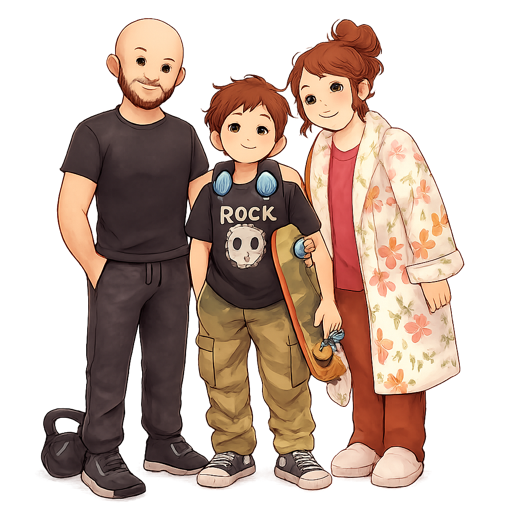
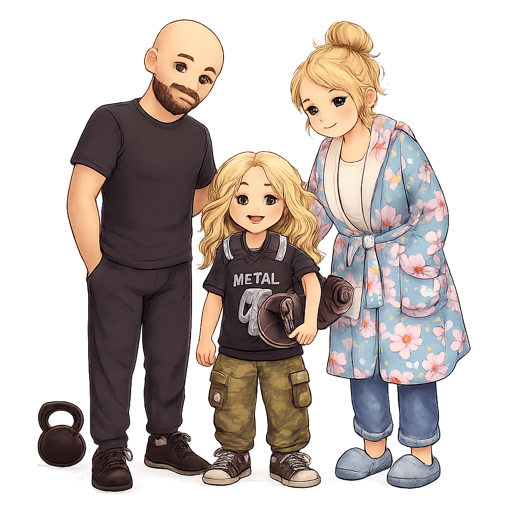
Lei/Mara want parrots; Rhubarb age 8 + unruly blonde hair; Gosia blonde
Preference swaps:
- Lei Kealoha wants a parrot to sing along with her ukulele (not lap cat)
- Mara Diop wants a parrot for company + feathers-for-her-outfits
  (not a shop dog)

Two-Houses cameo corrections: Rhubarb is 8 (not 11), small-statured,
unruly long blonde hair; Gosia is blonde with her top-knot bun. Prompt
updated to lock full-body framing with feet visible on a shared ground
line — an early signal of what a consistent three-quarter framing
looks like across the cast.

diff --git a/apps/game/public/admin/cast-gallery.html b/apps/game/public/admin/cast-gallery.html
@@ -81,8 +81,8 @@
     { id: '17-benji', name: 'Ben "Benji" Mackenzie', blurb: 'Trans rewilder, brings wild-visit reports' },
     { id: '18-tali', name: 'Avital "Tali" Rosenberg', blurb: 'Jewish pottery teacher, studio cat' },
     { id: '19-linny', name: 'Mei Lin "Linny" Chow', blurb: 'British-Chinese food blogger, photogenic kitten' },
-    { id: '20-lei', name: 'Leilani "Lei" Kealoha', blurb: 'Hawaiian ukulele teacher in Cornwall, lap cat' },
-    { id: '21-mara', name: 'Mariama "Mara" Diop', blurb: 'Senegalese seamstress, shop dog' },
+    { id: '20-lei', name: 'Leilani "Lei" Kealoha', blurb: 'Hawaiian ukulele teacher, wants a parrot to sing along' },
+    { id: '21-mara', name: 'Mariama "Mara" Diop', blurb: 'Senegalese seamstress, wants a parrot for company &amp; feathers' },
     { id: '22-yilmaz', name: 'Cem & Leyla Yılmaz', blurb: 'Turkish baker + nurse, cozy cat' },
     { id: '23-wiri-harper', name: 'Wiri & Harper', blurb: 'Maori ranger + nb biologist, field-trip dog' },
     { id: '24-perera-fernando', name: 'Perera-Fernando family', blurb: 'Sri Lankan, twins (9), calm family dog' },

diff --git a/docs/rehoming-cast.md b/docs/rehoming-cast.md
@@ -30,8 +30,8 @@
 | 6 | **Hiroshi "Hiro" Nakamura** | he/him | 62 | Retired fisherman, hearing aids, always carrying a library book | Very quiet · Patient · Recently bereaved | A sweet older cat who wants a gentle forever |
 | 18 | **Avital "Tali" Rosenberg** | she/her | 35 | Ashkenazi Jewish British, pottery teacher, curly dark hair tied up in a headscarf, clay dust on her hands | Creative chaos · Studio-lived · First-time | A playful studio cat |
 | 19 | **Mei Lin "Linny" Chow** | she/her | 28 | British-Chinese (Hong Kong heritage), food blogger, always with a notebook + camera, neon jackets | Flat / urban · Busy evenings · First-time | A photogenic kitten to star in her blog |
-| 20 | **Leilani "Lei" Kealoha** | she/her | 58 | Native Hawaiian (moved to Cornwall decades ago), ukulele teacher, hibiscus tucked in her greying hair on good days, uses a cane on damp ones | Lap-focused · Musical household · Recently bereaved | A sweet lap companion |
-| 21 | **Mariama "Mara" Diop** | she/her | 45 | Senegalese British, seamstress with her own tailoring shop, switches between boubous and jeans, warm booming laugh | Cozy / shop home · Experienced · Patient | A small rescue dog who can nap under her sewing table |
+| 20 | **Leilani "Lei" Kealoha** | she/her | 58 | Native Hawaiian (moved to Cornwall decades ago), ukulele teacher, hibiscus tucked in her greying hair on good days, uses a cane on damp ones | Musical household · Bird-welcoming · Recently bereaved | A parrot who'll sing along while she plays ukulele |
+| 21 | **Mariama "Mara" Diop** | she/her | 45 | Senegalese British, seamstress with her own tailoring shop, switches between boubous and jeans, warm booming laugh | Shop home · Bird-welcoming · Creative | A parrot to look beautiful on a perch, chirp while she sews, and shed bright feathers she can stitch into her fancy outfits |
 | 29 | **Morwenna "Wenna" Treloar** (lighthouse keeper) | she/her | 56 | Cornish, weathered salt-kissed cheeks, chunky hand-knit Aran jumper, sea-bleached work trousers, boots that squeak with brine | Coastal / remote · Very independent · Loves storms | A loyal shaggy dog who won't flinch at gulls or fog |
 
 ### Couples
@@ -70,7 +70,7 @@ A separate category because the *household* is two houses connected by a child w
 
 | # | Household | Members | Signature | Traits | Preference |
 |---|---|---|---|---|---|
-| 30 | **Dad's house & Mum's house** (first names only — no surnames shown in game) | **Marcus** (he/him, 44, Danish, psychotherapist, bald + bearded, fitness-focused, tidy flat with houseplants and kettlebells by the door) · **Gosia** (she/her, 42, Polish homebody, flowered housecoat, hair in a top-knot bun, cozy cottage full of blankets and bookshelves) · **Rhubarb** (they/them, 11, genderqueer, army-camo cargos + skater Converse, rock-band tee, headphones always round neck — splits the week between parents, *wants to adopt every single animal and has to be gently reined in by both parents*) | Two very different homes: Dad's is bright + active, Mum's is warm + slow. They co-parent warmly. Rhubarb rolls between them on a skateboard with an animal carrier strapped to their back. | Dual home · **Travels-well-between-houses pet required** · Shared care · Experienced adults · One wildly enthusiastic kid | A confident, car-ride-loving, people-attached pet who treats both houses as their territory — not a flighty or anxious one. Species that travel well: adaptable dogs, outgoing cats, bonded bunnies, some parrots. The game should actively *block* Rhubarb's puppy-eyed "can we adopt this one too!" spiral — this household gets ONE animal at a time |
+| 30 | **Dad's house & Mum's house** (first names only — no surnames shown in game) | **Marcus** (he/him, 44, Danish, psychotherapist, bald + bearded, fitness-focused, tidy flat with houseplants and kettlebells by the door) · **Gosia** (she/her, 42, Polish homebody, blonde hair in a top-knot bun, flowered housecoat, cozy cottage full of blankets and bookshelves) · **Rhubarb** (they/them, 8, genderqueer, small for the cast, unruly long blonde hair tumbling past their shoulders, army-camo cargos + skater Converse, rock-band tee, headphones always round neck — splits the week between parents, *wants to adopt every single animal and has to be gently reined in by both parents*) | Two very different homes: Dad's is bright + active, Mum's is warm + slow. They co-parent warmly. Rhubarb rolls between them on a skateboard with an animal carrier strapped to their back. | Dual home · **Travels-well-between-houses pet required** · Shared care · Experienced adults · One wildly enthusiastic kid | A confident, car-ride-loving, people-attached pet who treats both houses as their territory — not a flighty or anxious one. Species that travel well: adaptable dogs, outgoing cats, bonded bunnies, some parrots. The game should actively *block* Rhubarb's puppy-eyed "can we adopt this one too!" spiral — this household gets ONE animal at a time |
 
 ### Return visitors (already connected to A.R.C.)
 
